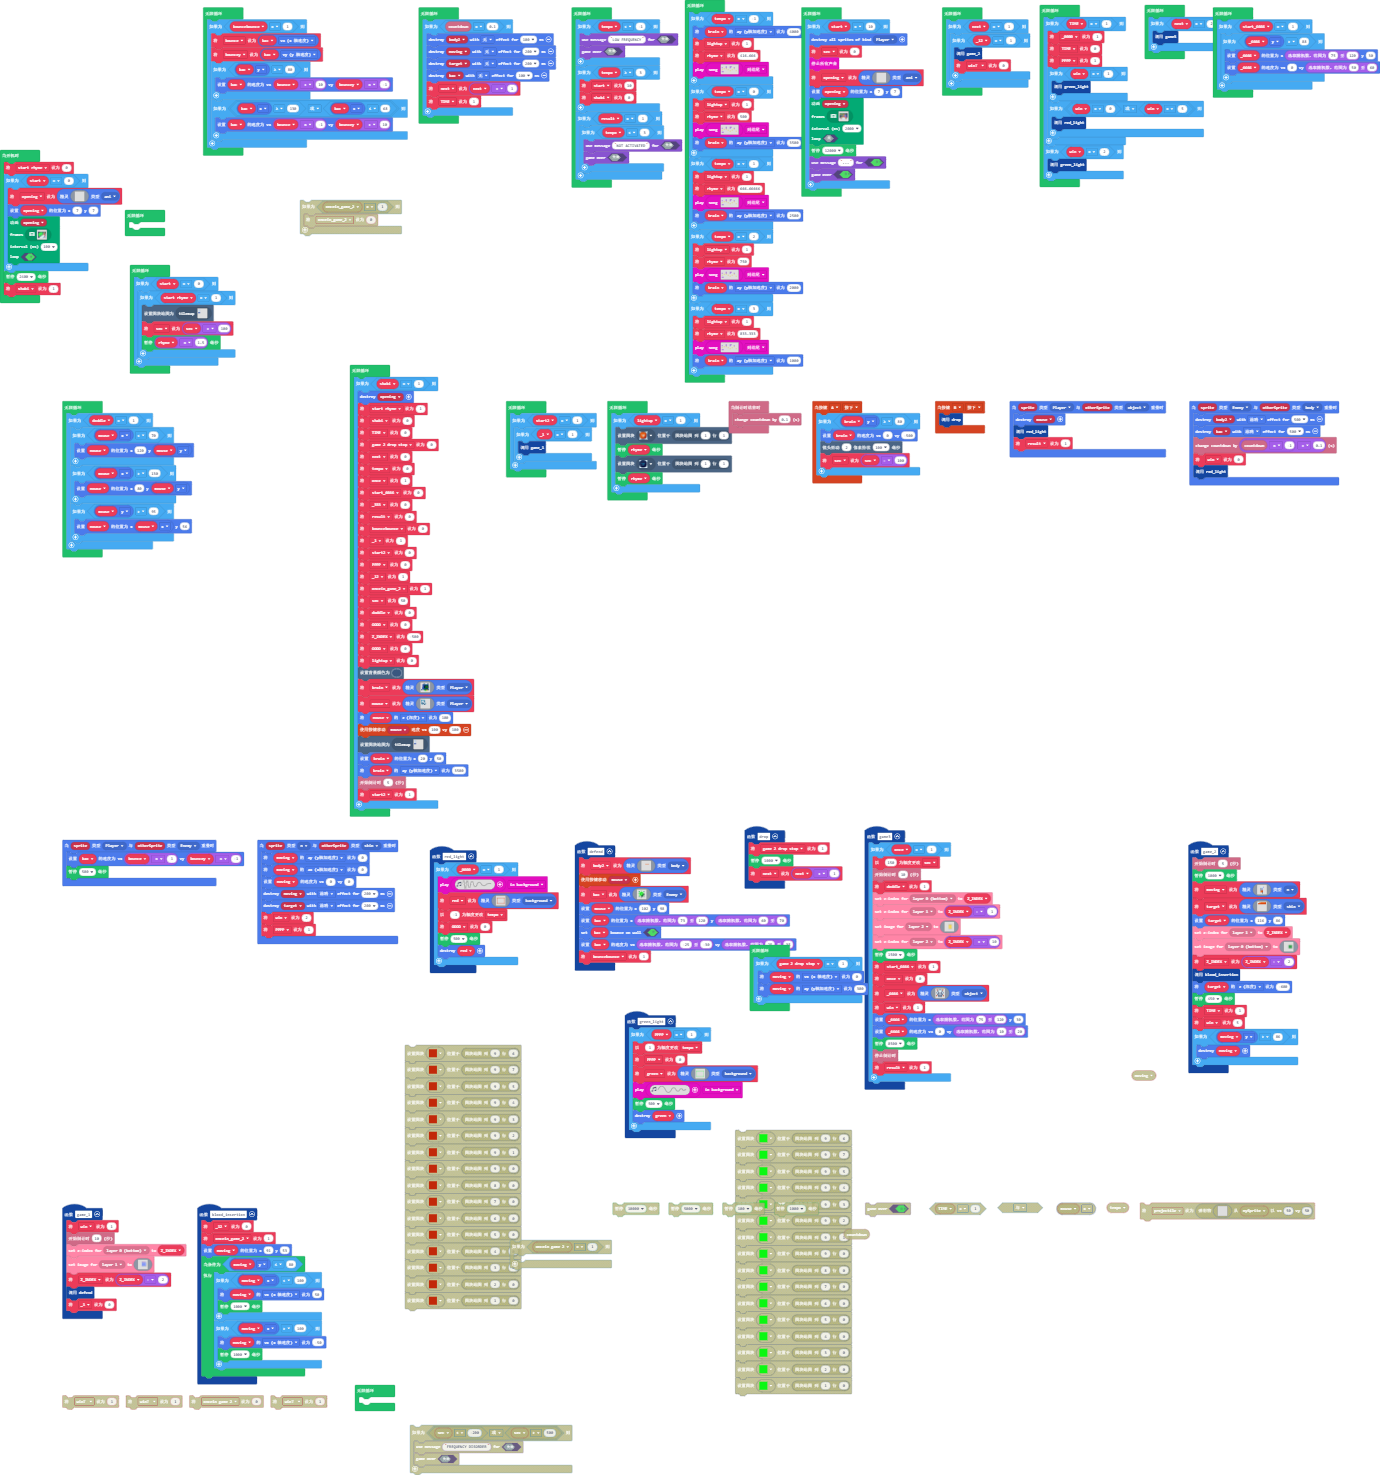
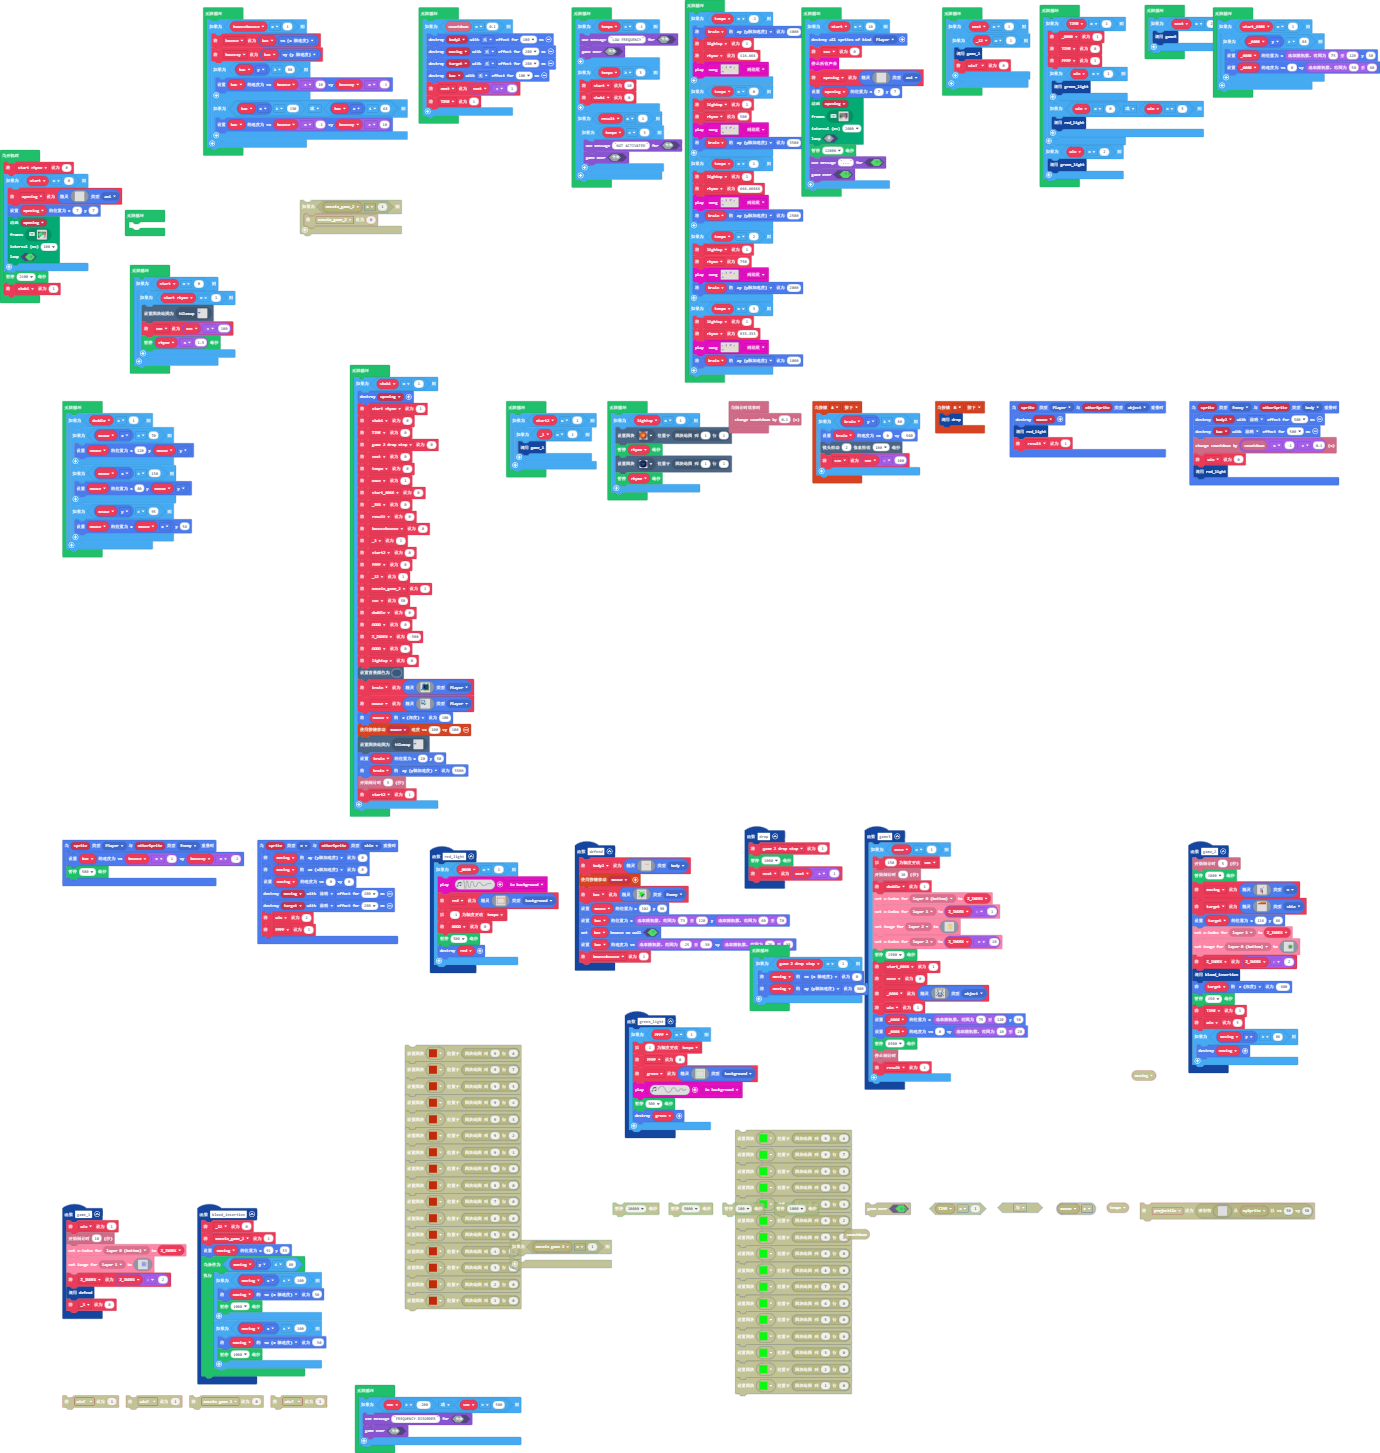
不无敌版

diff --git a/main.ts b/main.ts
@@ -4771,5 +4771,8 @@ forever(function () {
     }
 })
 forever(function () {
-	
+    if (sec < -200 || sec > 500) {
+        game.setGameOverMessage(false, "FREQUENCY DISORDER")
+        game.gameOver(false)
+    }
 })
